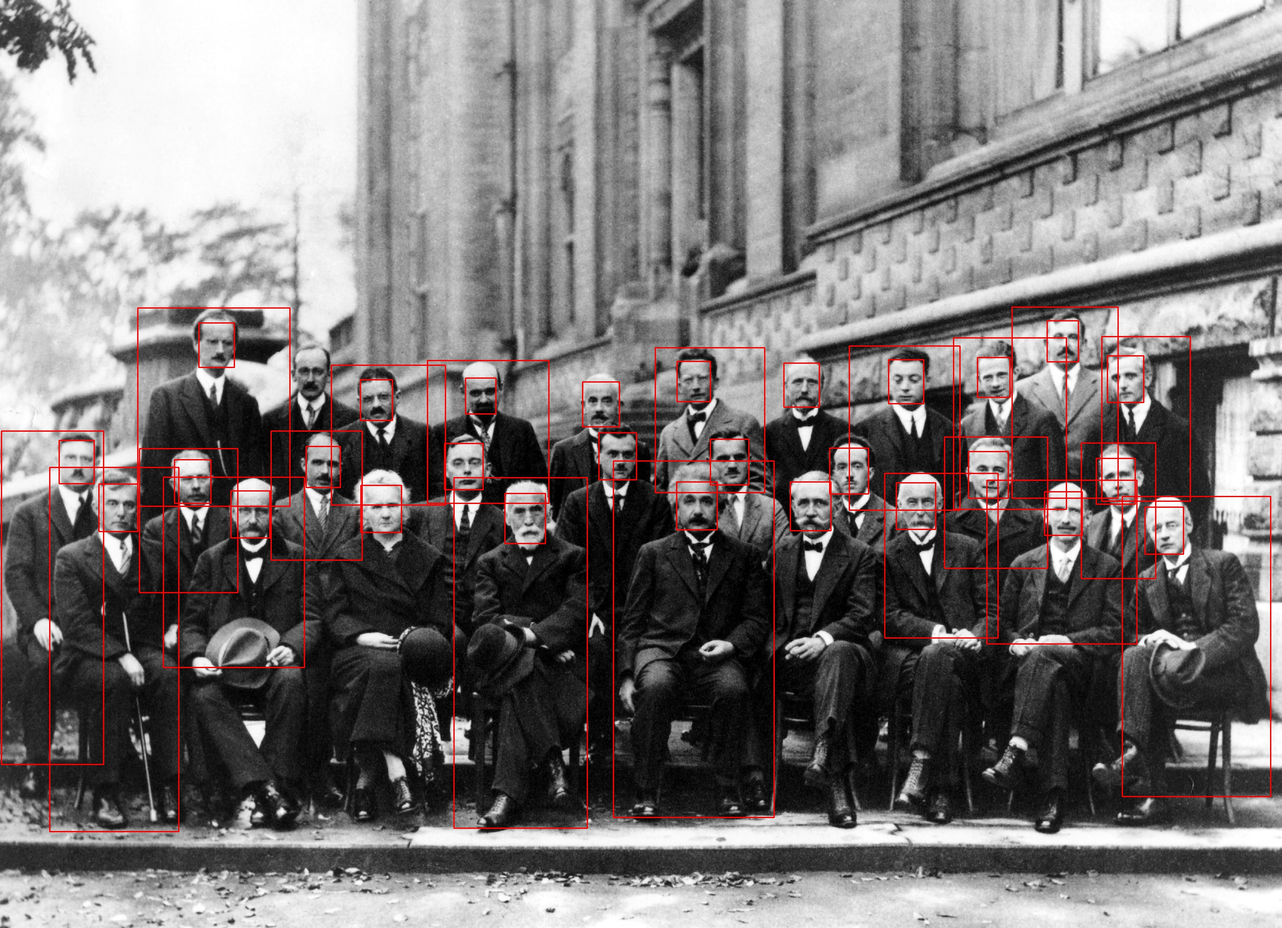
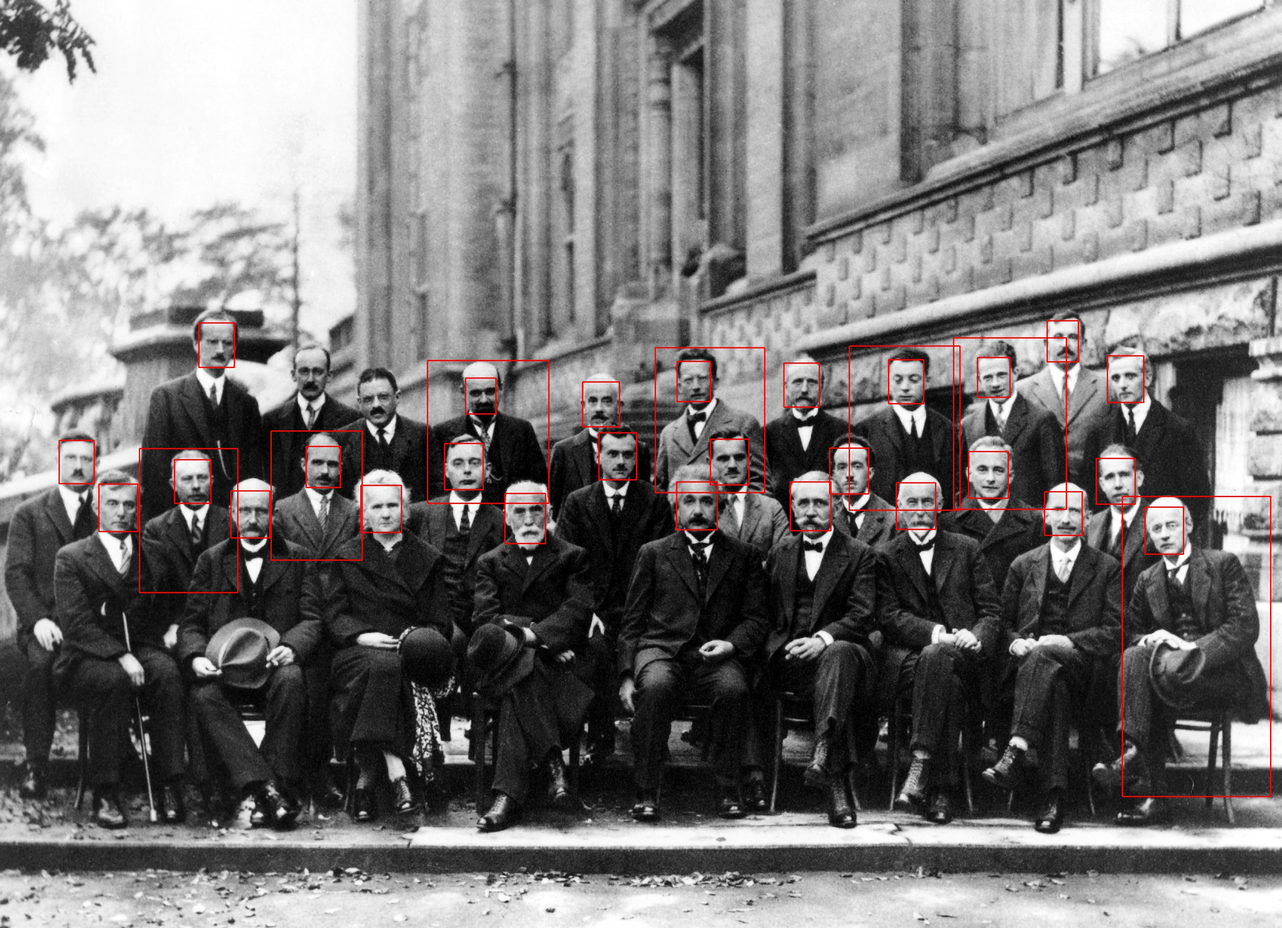
.

diff --git a/peoplenet.py b/peoplenet.py
@@ -70,7 +70,7 @@ class PeopleNet:
         scaling_factor = new_h / h
         centers = self.anchors - boxes[:, :2]
         wh = self.anchors + boxes[:, 2:]
-        boxes = np.hstack([centers, wh]) * self.box_norm / scaling_factor
+        boxes = np.hstack([centers, wh]) * self.box_norm
 
         ids = np.where(scores > conf_thres)[0]
         scores = scores[ids]
@@ -80,6 +80,7 @@ class PeopleNet:
         keep = nms(boxes, order[:, 0], nms_thres)
         scores = scores[keep]
         boxes = boxes[keep]
+        boxes /= scaling_factor
 
         return np.hstack([scores, boxes])
 
@@ -87,8 +88,8 @@ class PeopleNet:
 if __name__ == "__main__":
     from utils import draw
 
-    image_path = "images/worlds_largest_selfie_image.jpg"
+    image_path = "images/solvay_conference_1927.jpg"
     model = PeopleNet()
-    dets = model.detect(image_path, 0.2)
+    dets = model.detect(image_path, 0.4)
     print("Num detects:", dets.shape[0])
     draw(image_path, dets[:, 1:])
